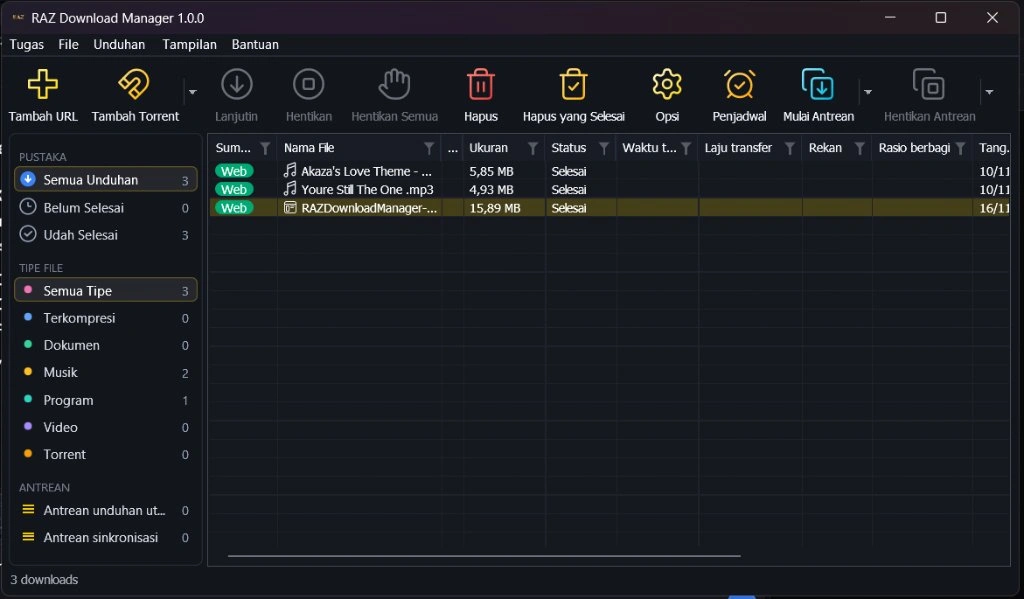
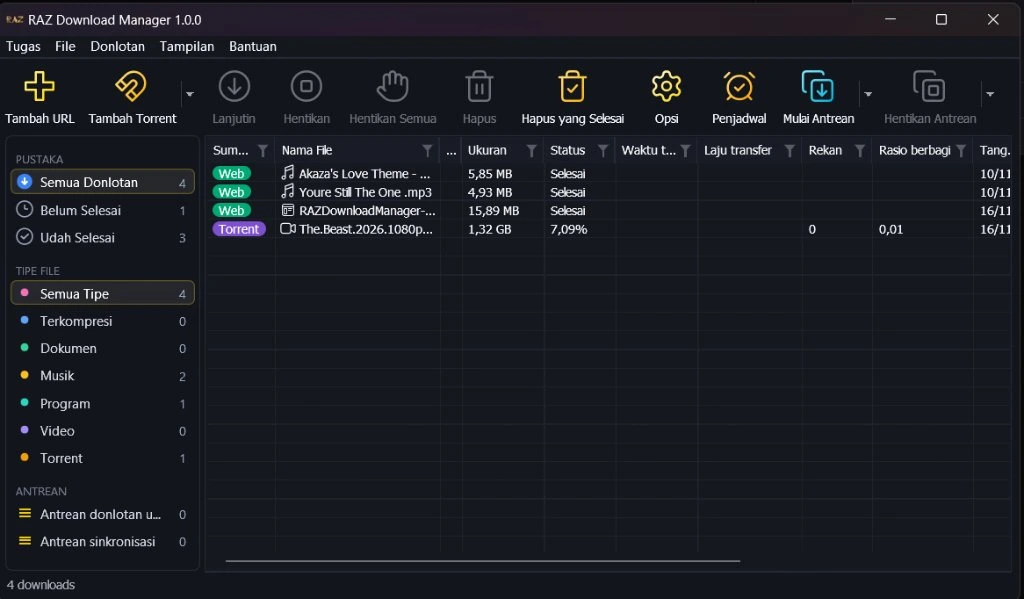
feat(screens): update main window screenshots with latest dark and light versions in README and website

diff --git a/website/js/RAZMainLang.js b/website/js/RAZMainLang.js
@@ -72,8 +72,10 @@ const RAZMainLang = {
             'tour-title-1': 'Desain Klasik yang Lo Kenal,',
             'tour-title-2': 'Engine Modern yang Jauh Lebih Kencang',
             'tour-desc': 'Layout praktis dan familiar seperti download manager yang lo pake selama bertahun-tahun, tapi dengan teknologi modern dan fitur yang belum pernah ada sebelumnya.',
-            'tour-tab-main-title': 'Layar Utama Modern',
+            'tour-tab-main-title': 'Layar Utama (Mode Gelap)',
             'tour-tab-main-desc': 'Daftar donlotan bersih, kategorisasi otomatis (Dokumen, Video, Program, Musik), dan toolbar emas responsif.',
+            'tour-tab-main-light-title': 'Layar Utama (Mode Terang)',
+            'tour-tab-main-light-desc': 'Tampilan antarmuka mode terang Windows dengan kontras presisi tinggi, pill hangat, dan teks tajam.',
             'tour-tab-progress-title': 'Setiap Koneksi Terpantau Live',
             'tour-tab-progress-desc': 'Pantau kecepatan dan bagian file yang terisi secara real-time. Resume aman dari crash tanpa takut file rusak.',
             'tour-tab-completed-title': 'Dialog Donlotan Selesai',
@@ -260,8 +262,10 @@ const RAZMainLang = {
             'tour-title-1': 'The Classic Layout You Know,',
             'tour-title-2': 'A Modern Engine That Flies',
             'tour-desc': 'The familiar layout you have trusted for years, rebuilt with cutting-edge engineering and modern capabilities.',
-            'tour-tab-main-title': 'Sleek Main Dashboard',
+            'tour-tab-main-title': 'Main Window (Dark Mode)',
             'tour-tab-main-desc': 'Clean download manager list with automatic categorization (Documents, Videos, Programs, Music) and responsive toolbar.',
+            'tour-tab-main-light-title': 'Main Window (Light Mode)',
+            'tour-tab-main-light-desc': 'Windows light mode interface with high contrast, warm amber accents, and razor-sharp text.',
             'tour-tab-progress-title': 'Every Connection Drawn Live',
             'tour-tab-progress-desc': 'Watch each connection fill in real time with live speed indicators. Crash-safe resume prevents file corruption.',
             'tour-tab-completed-title': 'Download Completed Dialog',

diff --git a/website/index.html b/website/index.html
@@ -313,8 +313,12 @@
             <div class="app-tour-grid">
                 <div class="tour-tab-list">
                     <div class="tour-tab-item active" data-img="assets/screens/main-dark.webp">
-                        <h4 data-lang-key="tour-tab-main-title">Layar Utama Modern</h4>
+                        <h4 data-lang-key="tour-tab-main-title">Layar Utama (Mode Gelap)</h4>
                         <p data-lang-key="tour-tab-main-desc">Daftar donlotan bersih, kategorisasi otomatis (Dokumen, Video, Program, Musik), dan toolbar emas responsif.</p>
+                    </div>
+                    <div class="tour-tab-item" data-img="assets/screens/main-light.webp">
+                        <h4 data-lang-key="tour-tab-main-light-title">Layar Utama (Mode Terang)</h4>
+                        <p data-lang-key="tour-tab-main-light-desc">Tampilan antarmuka mode terang Windows dengan kontras presisi tinggi, pill hangat, dan teks tajam.</p>
                     </div>
                     <div class="tour-tab-item" data-img="assets/screens/progress-dark.webp">
                         <h4 data-lang-key="tour-tab-progress-title">Setiap Koneksi Terpantau Live</h4>

diff --git a/README.md b/README.md
@@ -112,25 +112,30 @@ Tampilan akrab yang udah biasa lo pake di IDM, tapi performanya jauh lebih ngaci
 
 Berikut tampilan antarmuka resmi RAZ Download Manager v1.0.0 dengan sentuhan tema obsidian elegan khas RAZ Creative Studio:
 
-| 🖥 Tampilan Layar Utama | ⚡ Proses & Segmen Donlot Multi-Thread |
+| 🖥 Layar Utama (Mode Gelap) | ☀ Layar Utama (Mode Terang) |
 | :---: | :---: |
-| <img src="docs/images/main-raz.png" alt="Layar Utama RAZ Download Manager" width="460"> | <img src="docs/images/downloading.png" alt="Dialog Proses Donlot Multi-Thread" width="460"> |
-| *Daftar donlotan, toolbar emas, dan sidepanel rapi* | *Pemantauan segmen byte live, kecepatan, dan sisa waktu* |
-
-| ✅ Dialog Donlotan Selesai | ⚙ Konfigurasi & Pengaturan Lengkap |
-| :---: | :---: |
-| <img src="docs/images/completed.png" alt="Dialog Donlotan Selesai" width="460"> | <img src="docs/images/settings.png" alt="Konfigurasi RAZ Download Manager" width="460"> |
-| *Aksi cepat buka file, buka folder, dan setel aplikasi* | *Pengaturan integrasi peramban, koneksi, dan proksi* |
+| <img src="docs/images/main-raz.png" alt="Layar Utama RAZ Download Manager Mode Gelap" width="460"> | <img src="docs/images/main-raz-light.png" alt="Layar Utama RAZ Download Manager Mode Terang" width="460"> |
+| *Tema Obsidian Black, toolbar emas, dan sidepanel rapi* | *Tema Light Windows dengan kontras presisi tinggi & teks tajam* |
 
 | 🧲 Tambah Torrent (Mode Gelap) | 🧲 Tambah Torrent (Mode Terang) |
 | :---: | :---: |
 | <img src="docs/images/torrent-dark.png" alt="Dialog Tambah Torrent Mode Gelap" width="460"> | <img src="docs/images/torrent-light.png" alt="Dialog Tambah Torrent Mode Terang" width="460"> |
-| *Deteksi otomatis magnet link & pemilihan file selektif (Dark)* | *Dukungan penuh tema terang Windows dengan kontras presisi (Light)* |
+| *Deteksi otomatis magnet link & pemilihan file selektif (Dark)* | *Dukungan penuh tema terang Windows dengan tombol amber (Light)* |
 
 | 🔄 Proses Donlot Torrent (Mode Gelap) | 🔄 Proses Donlot Torrent (Mode Terang) |
 | :---: | :---: |
 | <img src="docs/images/torrent-progress-dark.png" alt="Visualisasi Potongan Torrent Mode Gelap" width="460"> | <img src="docs/images/torrent-progress-light.png" alt="Visualisasi Potongan Torrent Mode Terang" width="460"> |
 | *Visualisasi blok potongan file (pieces) real-time & laju transfer (Dark)* | *Visualisasi potongan torrent tema terang dengan kontras tajam (Light)* |
+
+| ⚡ Proses & Segmen Donlot Multi-Thread | ✅ Dialog Donlotan Selesai |
+| :---: | :---: |
+| <img src="docs/images/downloading.png" alt="Dialog Proses Donlot Multi-Thread" width="460"> | <img src="docs/images/completed.png" alt="Dialog Donlotan Selesai" width="460"> |
+| *Pemantauan segmen byte live, kecepatan, dan sisa waktu* | *Aksi cepat buka file, buka folder, dan setel aplikasi* |
+
+| ⚙ Konfigurasi & Pengaturan Lengkap | |
+| :---: | :---: |
+| <img src="docs/images/settings.png" alt="Konfigurasi RAZ Download Manager" width="460"> | |
+| *Pengaturan integrasi peramban, koneksi, dan proksi* | |
 
 ---
 

diff --git a/RAZUpdateHistory.md b/RAZUpdateHistory.md
@@ -3,6 +3,22 @@ Dokumentasi riwayat pembaruan dan perubahan harian proyek RAZ Download Manager.
 
 ---
 
+## [2026-11-16] — Pembaruan Tangkapan Layar Tampilan Utama (Layar Utama Dark & Light Mode Terbaru) di Website dan README.md
+*Waktu: 16 November 2026 16:10 WIB*
+
+### Aktivitas & Pembaruan:
+1. **Pembaruan Tangkapan Layar Layar Utama di `README.md`**:
+   - Memperbarui gambar layar utama ke versi paling mutakhir dengan daftar unduhan live dan dukungan torrent:
+     - `docs/images/main-raz.png` &rarr; Layar Utama Mode Gelap (Obsidian Black & Gold) versi terbaru.
+     - `docs/images/main-raz-light.png` &rarr; Layar Utama Mode Terang (Light Mode) dengan perbaikan kontras sidebar dan pill amber yang tajam.
+   - Mengatur tata letak tabel antarmuka `README.md` berpasangan simetris untuk Dark & Light mode.
+
+2. **Pembaruan Aset Layar Utama Website (`website/assets/screens/`)**:
+   - Memperbarui `main-dark.webp` dan `main-light.webp` dengan tangkapan layar 1024px terbaru berkualitas tinggi.
+   - Menambahkan tab preview tur interaktif di `website/index.html` untuk **Layar Utama (Mode Gelap)** dan **Layar Utama (Mode Terang)** beserta string bilingual di `RAZMainLang.js`.
+
+---
+
 ## [2026-11-16] — Penambahan Tangkapan Layar Dialog Tambah Torrent & Proses Donlot Potongan (Dark & Light Mode)
 *Waktu: 16 November 2026 15:58 WIB*
 
